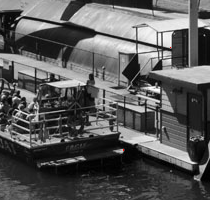
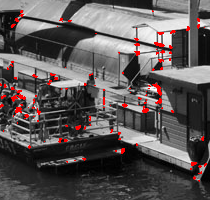
laptop switch

diff --git a/mid-sem-test-q14.py b/mid-sem-test-q14.py
@@ -1,0 +1,78 @@
+import numpy as np
+
+I = """
+76
+78
+76
+76
+76
+67
+68
+67
+68
+69
+I =	58
+58
+59
+57
+58
+47
+46
+47
+48
+46
+34
+35
+34
+36
+36"""
+
+def parse_matrix(m, size: int=5):
+    vals = [int(v.split("\t")[-1]) for v in m.strip().split("\n")]
+    print(vals)
+    M = []
+    for i in range(size):
+        M.append(vals[i*size:(i+1)*size])
+    print(M)
+    return np.array(M)
+
+
+def apply_kernel(I, kernel):
+    k_size = kernel.shape[0]
+    offset = k_size // 2
+    result = np.zeros_like(I)
+    for i in range(offset, I.shape[0] - offset):
+        for j in range(offset, I.shape[1] - offset):
+            region = I[i-offset:i+offset+1, j-offset:j+offset+1]
+            result[i, j] = np.sum(region * kernel)
+    return result
+
+
+I = parse_matrix(I, size=5)
+Ix = apply_kernel(I, np.array([ [0, 0, 0],
+                                [-1, 0, 1],
+                                [0, 0, 0]]))
+Iy = apply_kernel(I, np.array([ [0, -1, 0],
+                                [0, 0, 0],
+                                [0, 1, 0]]))
+
+print(f"Ix = {Ix}")
+print(f"Iy = {Iy}")
+
+Ixx = ((Ix * Ix) / 9).sum()
+Iyy = ((Iy * Iy) / 9).sum()
+Ixy = ((Ix/9) * (Iy/9)).sum()
+# Ixy = ((Ix * Iy) / 9).sum()
+
+# Ix = Ix * (1/9.0)
+# Iy = Iy * (1/9.0)
+# Ixx = (Ix**2).sum()
+# Iyy = (Iy**2).sum()
+# Ixy = (Ix * Iy).sum()
+
+print(f"Ixx = {round(Ixx, 2)}")
+print(f"Iyy = {round(Iyy, 2)}")
+print(f"Ixy = {round(Ixy, 2)}")
+
+C = (Ixx * Iyy - Ixy * Ixy) - 0.04 * (Ixx + Iyy)**2
+print(f"C = {round(C, 2)}")

diff --git a/a1/q2.py b/a1/q2.py
@@ -72,6 +72,24 @@ def compute_cornerness_score_naive(Ixx, Iyy, Ixy, alpha, threshold, im_width, im
                 pts.append((x, y, cornerness))
     pts = sorted(pts, key=lambda v: v[2], reverse=True)
     return pts[:1000]
+    # k = 3
+    # hk = k//2
+    # Ixx = np.pad(Ixx, pad_width=hk, mode="edge")
+    # Iyy = np.pad(Iyy, pad_width=hk, mode="edge")
+    # Ixy = np.pad(Ixy, pad_width=hk, mode="edge")
+    # pts = []
+    # for y in range(im_height):
+    #     for x in range(im_width):
+    #         A = (Ixx[y:y+k,x:x+k]*gausian_kernel()).sum() * 16
+    #         B = (Iyy[y:y+k,x:x+k]*gausian_kernel()).sum() * 16
+    #         C = (Ixy[y:y+k,x:x+k]*gausian_kernel()).sum() * 16
+    #         det_H = A*B - C*C
+    #         trc_H = A+B
+    #         cornerness = det_H - alpha * trc_H**2
+    #         if cornerness > threshold:
+    #             pts.append((x, y, cornerness))
+    # pts = sorted(pts, key=lambda v: v[2], reverse=True)
+    # return pts[:1000]
 
 
 l_im = np.array(Image.open("a1/left_image.png").convert('L'))
@@ -102,8 +120,8 @@ r_gIxx = gaussian_filtering(r_Ixx, image_width, image_height)
 r_gIyy = gaussian_filtering(r_Iyy, image_width, image_height)
 r_gIxy = gaussian_filtering(r_Ixy, image_width, image_height)
 
-cornerness_score_left = compute_cornerness_score(l_gIxx, l_gIyy, l_gIxy, alpha=0.04, threshold=10**6, im_width=image_width, im_height=image_height)
-cornerness_score_right = compute_cornerness_score(r_gIxx, r_gIyy, r_gIxy, alpha=0.04, threshold=10**6, im_width=image_width, im_height=image_height)
+cornerness_score_left = compute_cornerness_score_naive(l_gIxx, l_gIyy, l_gIxy, alpha=0.04, threshold=10**6, im_width=image_width, im_height=image_height)
+cornerness_score_right = compute_cornerness_score_naive(r_gIxx, r_gIyy, r_gIxy, alpha=0.04, threshold=10**6, im_width=image_width, im_height=image_height)
 
 
 # left_ix_square = np.load("a1/step3_expected_data/step3_blurred_left_ix_square.npy")

diff --git a/a1/kernel.py b/a1/kernel.py
@@ -65,5 +65,11 @@ print(f"Sobel Y^2:\n{inp_arr_sobel_yy}")
 inp_arr_sobel_xy = inp_arr_sobelx*inp_arr_sobely
 print(f"Sobel XY:\n{inp_arr_sobel_xy}")
 
-inp_arr_gsobelx = round_nearest(apply_kernel(inp_arr_sobel_xx, gaussian()))
-print(f"Gaussian Sobel X^2:\n{inp_arr_gsobelx}")
+inp_arr_gsobelxx = round_nearest(apply_kernel(inp_arr_sobel_xx, gaussian()))
+print(f"Gaussian Sobel X^2:\n{inp_arr_gsobelxx}")
+
+inp_arr_gsobelyy = round_nearest(apply_kernel(inp_arr_sobel_yy, gaussian()))
+print(f"Gaussian Sobel Y^2:\n{inp_arr_gsobelyy}")
+
+inp_arr_gsobelxy = round_nearest(apply_kernel(inp_arr_sobel_xy, gaussian()))
+print(f"Gaussian Sobel XY:\n{inp_arr_gsobelxy}")